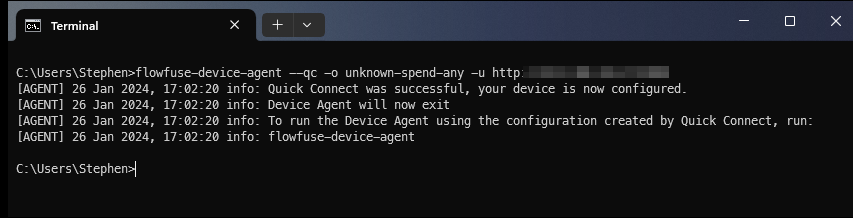
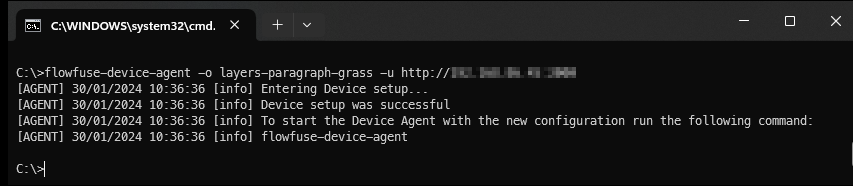
eradicate mention of "Quick connect"

diff --git a/src/changelog/2024/01/device-onboarding-improvements.md b/src/changelog/2024/01/device-onboarding-improvements.md
@@ -1,6 +1,6 @@
 ---
-title: Device Quick connect
-date: 2024-01-26 13:00:00.0
+title: Device Onboarding Improvements
+date: 2024-02-15 13:00:00.0
 authors: ["stephen-mclaughlin"]
 tags:
     - changelog
@@ -11,8 +11,8 @@ have now introduced a new simpler and faster way of getting your devices
 configured and connected to the FlowFuse platform.
 
 Now, when you create a device on the platform, you will be offered a simple
-"Quick Connect" command. Run this command in a terminal or command windows
-and the let the device agent do all the hard work for you.
+"Setup command". Run this command in a terminal and the let the device
+agent do all the hard work for you.
 
 ![](./images/quick-connect-1.png)
 
